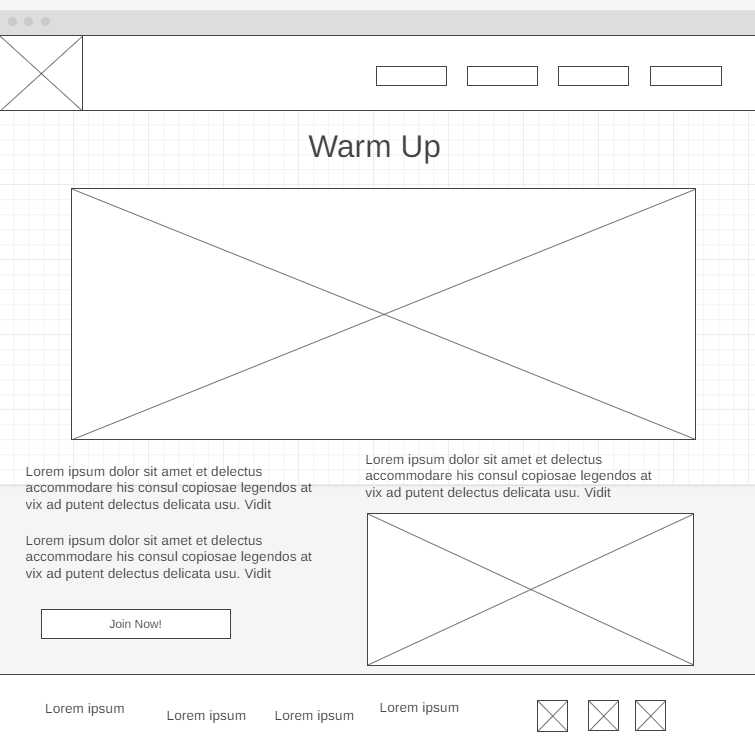
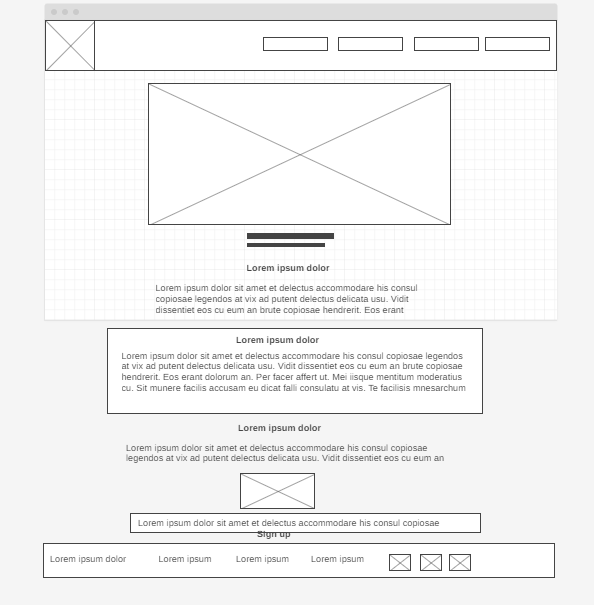
updating file 101

diff --git a/dancesite/warmup.html b/dancesite/warmup.html
@@ -6,28 +6,6 @@
     <title>Danceprac Website</title>
     <link rel="stylesheet" href="style/warmup.css">
 </head>
-<script>
-    function openCity(evt, cityName) {
-        // Declare all variables
-        var i, tabcontent, tablinks;
-      
-        // Get all elements with class="tabcontent" and hide them
-        tabcontent = document.getElementsByClassName("tabcontent");
-        for (i = 0; i < tabcontent.length; i++) {
-          tabcontent[i].style.display = "none";
-        }
-      
-        // Get all elements with class="tablinks" and remove the class "active"
-        tablinks = document.getElementsByClassName("tablinks");
-        for (i = 0; i < tablinks.length; i++) {
-          tablinks[i].className = tablinks[i].className.replace(" active", "");
-        }
-      
-        // Show the current tab, and add an "active" class to the link that opened the tab
-        document.getElementById(cityName).style.display = "block";
-        evt.currentTarget.className += " active";
-      }
-</script>
 <body>
     <header>
         <a id="logo_link" href="Index.html">
@@ -46,40 +24,28 @@
         </div>
         <section id="hero-msg">
             <h1 class="home-title">Warm Up!</h1>
-            <div class="tab">
-                <button class="tablinks" onclick="openCity(event, 'London')">Warming Up</button>
-                <button class="tablinks" onclick="openCity(event, 'Paris')">Exercise</button>
-                <button class="tablinks" onclick="openCity(event, 'Tokyo')">How To</button>
-              </div>
-              
-              <div id="London" class="tabcontent">
-                <h3>Benefit of Warm up</h3>
+                <div id="Warmu">
+                <h2>Benefit of Warm up</h2>
                 <p>Warming up before dancing will help you loosen some muscles and to avoid internal injury that leads to a worst experience. We want you to have a best dancing experience whether you are here just for fitness or for intently learning how to dance. In some case, dancing without warming up will surprise your muscles and there's a chance that you will suffer pain in some part of your body. To avoid this kind of injury we suggest the following exercises to let you warm up then proceed to dance.</p>
-
             </div>
-              
-              <div id="Paris" class="tabcontent">
-                <h3>Let's Exercise</h3>
+                <div id="Letex">
+                <h3>Let's Exercise!</h3>
                 <p>Exercises:</p>
                 <p>• 20 times Jumping jack/ one kilometer jogging</p>
                 <p>• Head stretch in all four direction (up, down, left, right) & Muscle stretch from arms, legs, to your feet. </p>
                 <p>• 10 push up</p>
                 <p>• One whole body stretch</p>
-
-              </div>
-              
-              <div id="Tokyo" class="tabcontent">
-                <h3>How to</h3>
-                <p>Jumping jack helps you wake up your whole body muscles this is helpful before you make stretching. Stand straight with your feet together and hands by your sides. Jump up, spread your feet and bring both hands together above your head. Jump again and return to the starting position, do this for 20 times. Jogging is a great exercise for cardio when doing jogging avoid running.</p>
-                <p>Do some basic stretch starting from your head push chin up, for 8 counts and do this to the rest of direction. Roll your shoulder to the front for 8 counts and reverse for 8 counts. Roll you hips to the right and reverse for 8 counts. Bend one knee and hug it into your body. Slowly kick that leg up toward the ceiling, straightening it and pulling it toward the torso until tension is felt behind the leg. Point and flex the foot 3 times and perform 3 ankle circles in each direction. Lower the leg and repeat with the opposite leg.</p>
-            
             </div>
-        </section>
+                <h4>How to</h4>
+                <p>Jumping jack helps you wake up your whole body muscles this is helpful before you make stretching. Stand straight with your feet together and hands by your sides. Jump up, spread your feet and bring both hands together above your head. Jump again and return to the starting position, do this for 20 times. Jogging is a great exercise for cardio when doing jogging avoid running.</p>            
+
+            </section>
     </div>
     <main>
         <div id="backround"></div>
         <img class="dancing" src="image/Page22nd.png" alt="Dancing girl">
     <section class="msg">
+        <p>Do some basic stretch starting from your head push chin up, for 8 counts and do this to the rest of direction. Roll your shoulder to the front for 8 counts and reverse for 8 counts. Roll you hips to the right and reverse for 8 counts. Bend one knee and hug it into your body. Slowly kick that leg up toward the ceiling, straightening it and pulling it toward the torso until tension is felt behind the leg. Point and flex the foot 3 times and perform 3 ankle circles in each direction. Lower the leg and repeat with the opposite leg.</p>
         <p>Once you have done this we are ready to go!</p>
         <a class='join' href="sign-up.html" target="_blank">Sign Up</a>
     </section>
@@ -102,6 +68,4 @@
         </div>
       </footer>
 </body>
-
-
 </html>

diff --git a/dancesite/style/warmup.css b/dancesite/style/warmup.css
@@ -35,8 +35,8 @@ nav {
 }
 
 .home-title {
-    font-size: 25px;
-    color: #879859;
+    font-size: 45px;
+    color: #d20781;
     margin-top: 100px;
 }
 
@@ -61,6 +61,11 @@ nav {
     text-align: left;
     cursor: pointer;
     transition: 0.3s;
+  }
+
+  script {
+    display: flex;
+    margin-top: 250px;
   }
 
   .tab button:hover {
@@ -117,6 +122,43 @@ nav a:hover {
     z-index: -1;
 }
 
+h2, h3, h4 {
+    font-size: 25px;
+}
+
+h2 {
+    margin-top: 50px;
+    text-decoration: underline;
+}
+
+#Warmu {
+    word-spacing: 5px;
+}
+
+h3 {
+    margin-top: 50px;
+    text-align: center;
+}
+
+#Letex {
+    white-space: nowrap;
+    width: 1000px;
+    border: 1px solid #000000;
+    overflow: hidden;
+    text-overflow: ellipsis;
+    margin-top: 50px;
+    text-align: left;
+}
+
+
+#Letex:hover {
+    overflow: visible;
+}
+
+h4 {
+    margin-top: 50px;
+}
+
 #hero-img {
     width: 50%;
     border: 10px solid rgb(236, 139, 79);
@@ -135,6 +177,10 @@ nav a:hover {
     margin-top: 450px;
 }
 
+#London, #Paris, #Tokyo {
+    text-align: left;
+}
+
 .msg {
     background-color: rgb(123, 156, 217);
     color: rgb(19, 14, 14);
@@ -143,6 +189,7 @@ nav a:hover {
     grid-column: 6/10;
     grid-row: 6/7;
     box-shadow: 5px 5px 10px #6f7364;
+    text-align: center;
 }
 
 .msg h2 {
@@ -174,11 +221,11 @@ nav a:hover {
 }
 
 .button-box:hover {
-    background-color: #0b5aed;
+    background-color: rgba(11, 90, 237, 0.747);
 }
 
 .Sign-up, .join {
-    background-color: #0785bf;
+    background-color: #a007bf;
     color: black;
     text-decoration: none;
     font-size: 18px;
@@ -203,16 +250,32 @@ footer {
 footer a {
     color: white;
     text-decoration: none;
+    float: left;
+    display: block;
+    color: #f2f2f2;
+    text-align: center;
+    padding: 14px 16px;
+    text-decoration: none;
+    font-size: 17px;
 }
 footer a:hover {
     background-color: #8ECAE6;
     color: black;
     text-decoration: underline;
     transition: 1s;
+    transition-duration: 0.5s;
+    font-size: 1.2em;
 }
 
 footer p {
     font-size: 1.2em;
+    float: left;
+    display: block;
+    color: #f2f2f2;
+    text-align: center;
+    padding: 14px 16px;
+    text-decoration: none;
+    font-size: 17px;
 }
 
 .dancing {

diff --git a/dancesite/style/sign-up.css b/dancesite/style/sign-up.css
@@ -37,7 +37,7 @@ button:hover {
 }
 
 .logo {
-    width: 110px;
+    width: 50px;
     margin: 0;
 }
 
@@ -55,9 +55,13 @@ header{
 }
 
 nav a {
-    color: rgb(64, 24, 24);
-    padding: 35px;
-    font-size: 1.5em;
+  float: left;
+  display: block;
+  color: #f2f2f2;
+  text-align: center;
+  padding: 14px 16px;
+  text-decoration: none;
+  font-size: 17px;
 }
 
 nav a:hover {
